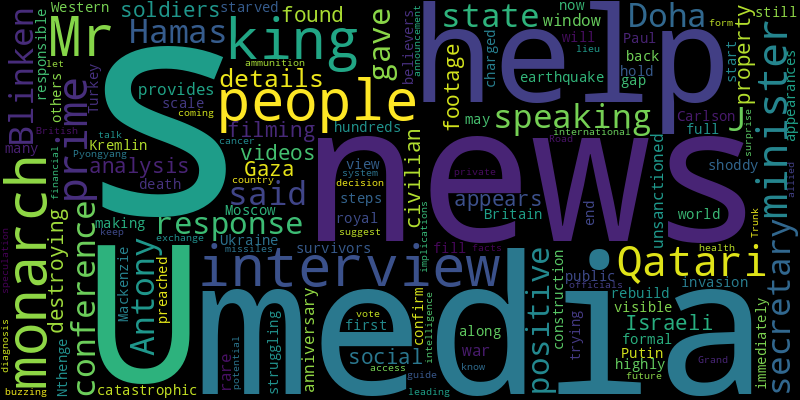
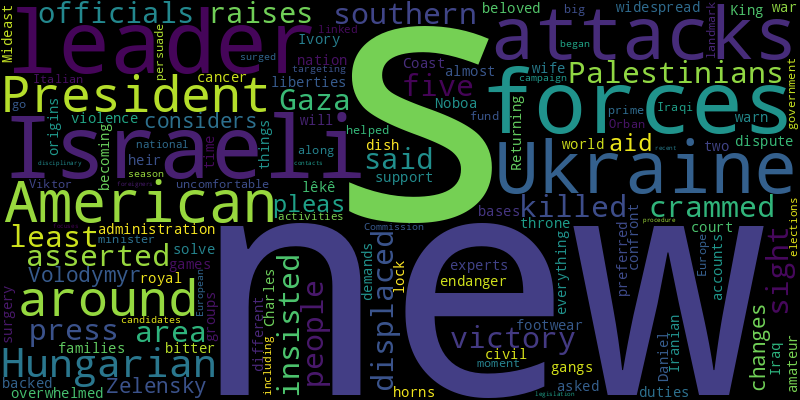
chore(bot): 😂 auto commit

diff --git a/README.md b/README.md
@@ -2,41 +2,41 @@
 Auto RSS New York Times and Generate Word Cloud
 
 ## New York Times Global News
-* The Qatari prime minister, speaking at a news conference in Doha with the U.S. secretary of state, Antony J. Blinken, said Hamas’s response was “positive” but gave few details.
-* An analysis of social media videos found Israeli soldiers filming themselves in Gaza and destroying what appears to be civilian property. The footage provides a rare and unsanctioned window into the war.
-* On the anniversary of a catastrophic earthquake, Turkey is still struggling to rebuild, help survivors and hold people responsible for shoddy construction.
-* The Kremlin did not immediately confirm an interview with Mr. Carlson. It would be Mr. Putin’s first formal interview with Western media since the start of his full-scale invasion of Ukraine.
-* Britain’s king has been a highly visible royal, making hundreds of public appearances. As he steps back from view, who will fill the gap?
-* When Paul Nthenge Mackenzie preached that the world was about to end, many of his believers starved themselves to death. He has now been charged along with 29 others.
-* Moscow may be trying to help Pyongyang with access to the international financial system in exchange for missiles and ammunition, U.S.-allied intelligence officials suggest.
-* The king has let people know more about his health than other monarchs, but a decision to keep private the form of cancer he has is leading to speculation in lieu of facts.
-* The Grand Trunk Road is buzzing with talk of the coming vote, and of the country’s future.
-* The British monarch’s diagnosis was a surprise announcement. Here’s a guide to the news and its potential implications.
+* The Israeli leader asserted that victory was “in sight” and insisted that Israeli forces would press into an area crammed with displaced Palestinians in southern Gaza.
+* The attacks killed at least five people, officials said, as Ukraine raises pleas for more American aid and President Volodymyr Zelensky considers changes in his administration.
+* President Daniel Noboa’s new war on gangs has widespread support in a nation overwhelmed by violence. But experts warn it could endanger civil liberties.
+* A court has been asked to solve a bitter dispute between two families who have very different accounts of the origins of a dish beloved around the world.
+* In Ivory Coast, lêkê are the preferred footwear for amateur games and almost everything else.
+* Returning to royal duties after his wife’s surgery and the news of King Charles’s cancer, the heir to the throne will confront new demands on his time.
+* As Iranian-backed groups and American forces, both of which have bases in Iraq, lock horns around the Mideast, things are becoming uncomfortable for the Iraqi government.
+* The Italian prime minister helped persuade the Hungarian leader, Viktor Orban, to go along with a landmark fund for Ukraine. It was a big moment for Europe. And for her.
+* Attacks against activities linked to the national elections, including the targeting of candidates, have surged during campaign season.
+* The European Commission began a disciplinary procedure over recent legislation that focuses on contacts between foreigners and Hungarians.
 
 ![Global](./global.png)
 ## New York Times United States News
-* Jennifer Crumbley was convicted on four counts of involuntary manslaughter, one for each student her son killed in Michigan’s deadliest school shooting.
-* The guilty verdict in Michigan against the mother of a school shooter will reverberate in prosecutors’ offices around the country. But don’t expect a flood of similar cases, experts say.
-* Officials provided the first comprehensive look at where the 100 victims of the Aug. 8 wildfire were found.
-* Her fiery competitiveness, no-look passes and 3-point bombs have made for must-see basketball in Iowa. What happens when she leaves?
-* Tyler Chase, 22, was living in transitional housing in Portland, Ore., when the authorities misidentified a body as his and cremated it.
+* Representative Virginia Foxx said Harvard had provided a “limited and dilatory” response to a House committee investigation. She threatened to file a subpoena to force Harvard to submit more documents.
 * The Office for Civil Rights of the U.S. Education Department is looking into the allegations after a complaint from a Muslim advocacy group.
-* Senator James Lankford, the Oklahoma Republican who brokered the doomed compromise, has fended off attacks from his own party while fighting to keep the bill alive.
-* McDonald’s, Costco and other major brands say they are stepping up efforts to keep minors from the grueling, often dangerous work that goes into their products.
 * When the nation’s oldest person has a birthday, a California community makes sure to celebrate.
-* Ms. Haley ran essentially unopposed in the primary, which awards no delegates. The former president will compete in Thursday’s caucuses.
+* Lina Hidalgo, who became Houston’s top executive at the age of 27, earned praise for openly discussing her struggles with depression. Is such honesty still a political risk?
+* Alejandro N. Mayorkas, the homeland security secretary, has learned to keep his head down through the drama, his confidants say
+* The top executives of three major companies are set to appear on Thursday before a Senate panel led by Mr. Sanders, who has made lowering drug costs a signature issue.
+* In a momentous argument, the justices will consider whether the former president’s attempts to subvert the 2020 election disqualify him from again holding office.
+* G.O.P. presidential candidates bypassed the state because of a complicated, noncompetitive primary process. It also may have deterred some Latino voters.
+* For some couples, figuring out how to talk about the war in Gaza is a hurdle in the relationship, but ultimately one that has brought them closer.
+* The self-help author, who also ran in the Democratic primary in 2020, finished far behind President Biden in this year’s first nominating contests.
 
 ![US](./usnews.png)
 ## New York Times Asia News
+* Karolina Shiino, a naturalized Japanese citizen who was born in Ukraine, resigned two weeks after winning the Miss Japan crown.
+* In addition to consumer price declines in January, wholesale prices fell last month, and have been down in every month since October 2022.
+* A crackdown on a major political party is the latest dizzying swerve in the country’s roller-coaster politics.
+* Analysts say Pakistan’s powerful military has never intervened so openly on behalf of its preferred candidate.
+* Also, U.S. aid to Ukraine stalls and a fight over the origins of butter chicken.
+* A court has been asked to solve a bitter dispute between two families who have very different accounts of the origins of a dish beloved around the world.
+* The United States bought more goods from Mexico than China in 2023 for the first time in 20 years, evidence of how much global trade patterns have shifted.
+* Attacks against activities linked to the national elections, including the targeting of candidates, have surged during campaign season.
 * The mounting frustration with the military establishment is a stark shift in Punjab, the country’s most populous and politically important province.
 * Plus, a Korean food renaissance in New York.
-* With the package teetering on the brink of collapse, diplomats said the nation’s credibility was on the line.
-* Moscow may be trying to help Pyongyang with access to the international financial system in exchange for missiles and ammunition, U.S.-allied intelligence officials suggest.
-* The Grand Trunk Road is buzzing with talk of the coming vote, and of the country’s future.
-* Also, King Charles’s cancer diagnosis and the women who ruled the Grammys.
-* Hand Hospitality has become a major player by channeling the creative energy of Seoul. But don’t expect its soft-spoken owners to crow about that.
-* A meeting of the new economic working group comes as the U.S. and China are trying to prevent any escalation of hostilities.
-* Hundreds of flights and trains have been canceled as China’s most important holiday approaches, and more bad weather is in the forecast.
-* The verdict in the case of Yang Hengjun, who was detained on national security charges, may weigh on the warming relations between China and Australia.
 
 ![Asian](./asian.png)
